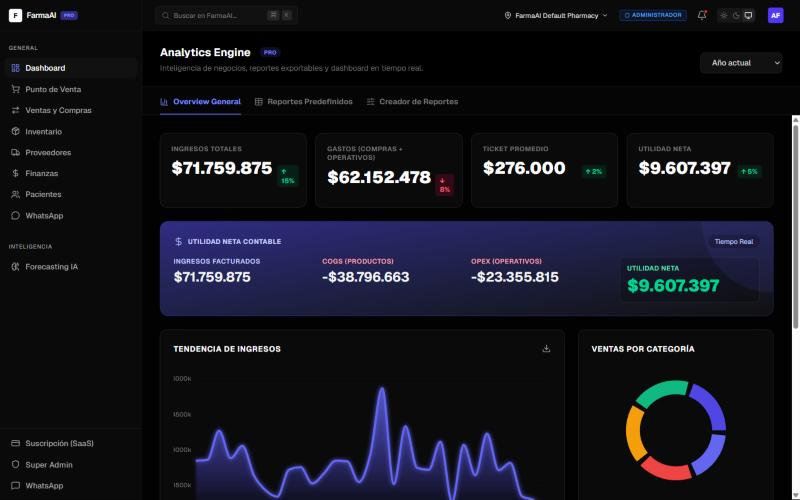
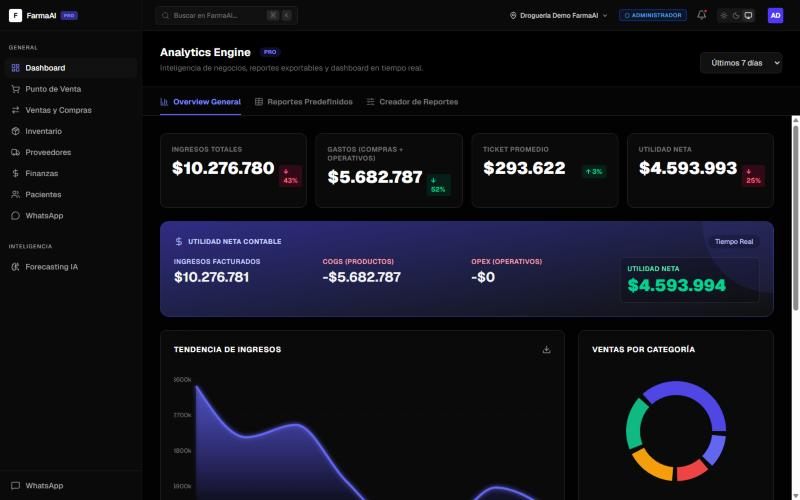
docs: capturas del README actualizadas (escritorio 1440×900)
Reflejan las fases 1 a 3: tendencias reales, caja abierta con alerta FEFO,
recomendaciones de IA validadas, panel de vencimientos. Se quita la captura del
panel Super Admin (no accesible con las cuentas demo y desactualizada).

diff --git a/README.md b/README.md
@@ -98,12 +98,23 @@ quiebres de stock y cero seguimiento a pacientes crónicos.
 
 ## 📸 Capturas
 
-**Dashboard de analítica**: ingresos, gastos, utilidad neta y tendencia de ventas.
+**Dashboard**: ingresos, gastos y utilidad con su tendencia real contra el periodo anterior.
 
 ![Dashboard](docs/screenshots/dashboard.jpg)
 
-| Punto de Venta | CRM de pacientes (ficha 360°) |
+| Punto de Venta (caja abierta, IVA y alerta FEFO) | Ficha 360° del paciente con recomendaciones de IA |
 |---|---|
+| ![POS](docs/screenshots/pos.jpg) | ![CRM](docs/screenshots/crm.jpg) |
+
+| Inventario por vencimiento (FEFO) | Auditoría de ventas |
+|---|---|
+| ![Inventario](docs/screenshots/inventario.jpg) | ![Ventas](docs/screenshots/ventas.jpg) |
+
+**Analítica**: horas pico, rentabilidad por producto y panel de vencimientos a 30/60/90 días.
+
+![Analítica y vencimientos](docs/screenshots/analitica.jpg)
+
+---|---|
 | ![POS](docs/screenshots/pos.png) | ![CRM](docs/screenshots/crm.png) |
 
 | Inventario FEFO | Auditoría de ventas |
